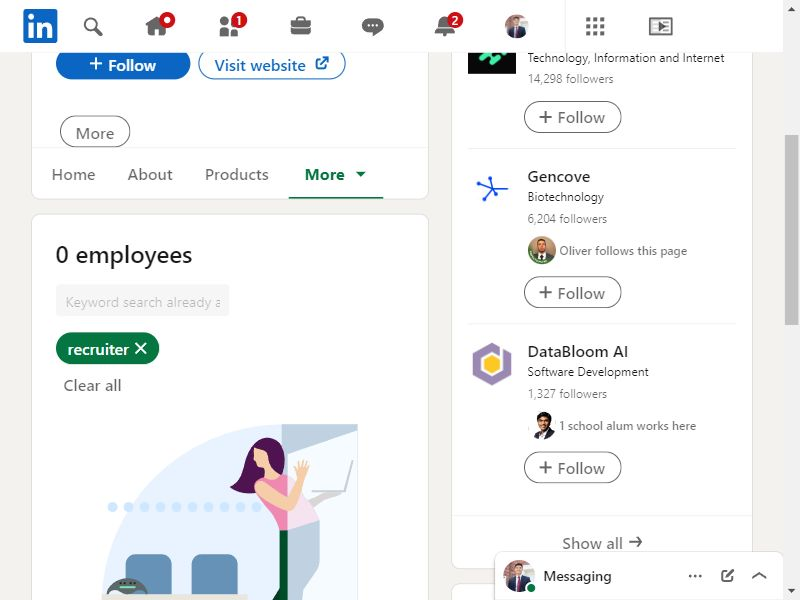
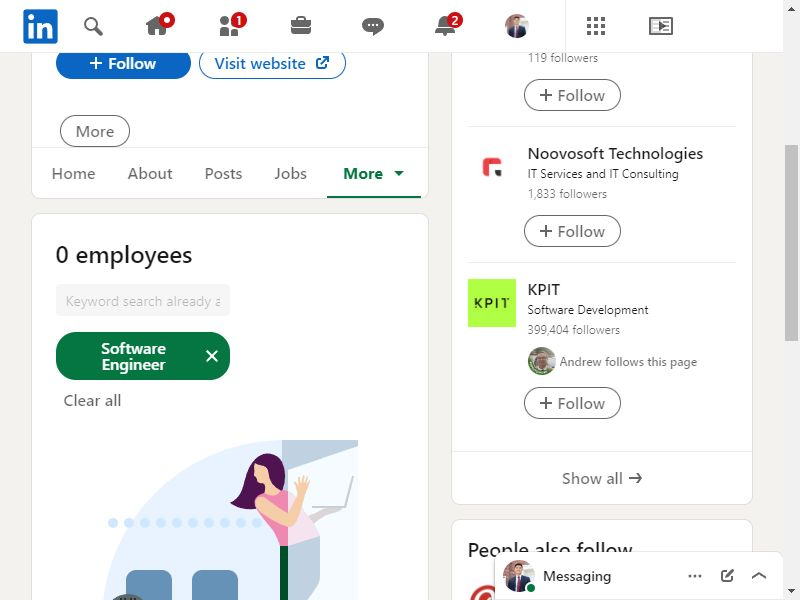
revise if/else condition

diff --git a/scrapeRecruiter.js b/scrapeRecruiter.js
@@ -1,6 +1,7 @@
 const puppeteer = require('puppeteer');
 const {getLinkedinUsername, getLinkedinPassword} = require('./envVariable.js');
 let yourModule = require('./mongo.js');
+let utils = require('./utils.js')
 function delay(time) {
 	return new Promise(function(resolve) { 
 		setTimeout(resolve, time)
@@ -31,7 +32,7 @@ function delay(time) {
     
     i = 0
     let jobLists = [];
- 
+
     while (i < 1) {
         for await (const doc of lists) {
             if (doc.reachedOut == false) {
@@ -46,7 +47,7 @@ function delay(time) {
             }
         }
     }
-      
+    
 
     for await(const jobUrl of jobLists) {
         await page.goto(jobUrl);
@@ -59,14 +60,16 @@ function delay(time) {
         });
 
         await page.goto(companyUrl);
-        let url = await page.url();
-        await delay(10000);
-        //revise url
-        if (url.includes("/life")){
-            url = url.split("/life")[0];
-        }
-        console.log(url)
-        await page.goto(url +'/people');
+
+        await utils.linkedinPeoplePage(page);
+        //let url = await page.url();
+        // await delay(10000);
+        // //revise url
+        // if (url.includes("/life")){
+        //     url = url.split("/life")[0];
+        // }
+        // console.log(url)
+        // await page.goto(url +'/people');
 
         await delay(10000);
 
@@ -106,11 +109,17 @@ function delay(time) {
                 
         });
         console.log(fullName)
+        let firstName = fullName.split(" ")[0]
+
         await delay(10000);
 
         let v = await page.$eval('div.pvs-profile-actions > button', element=> element.getAttribute("aria-label"))
 
-        if (v.toLowerCase().includes('follow')){
+        if (v.toLowerCase().includes('connect')){
+            //await page.$eval('div.pvs-profile-actions > div.artdeco-dropdown', element=> element.scrollIntoView());
+            await page.click('div.pvs-profile-actions > button')
+
+        }else {
             //await page.$eval('div.pvs-profile-actions > div.artdeco-dropdown', element=> element.scrollIntoView());
             await page.keyboard.press('ArrowDown');
             await page.keyboard.press('ArrowDown');
@@ -131,15 +140,96 @@ function delay(time) {
 
                 await element.click();
             }
-        }else {
-                await page.click('div.pvs-profile-actions > button')
-
-            }
+        }
         await page.click('[aria-label="Add a note"]')
 
         await delay(5000);
 
-        await page.type('[name="message"]',`Hello ${fullName},\nI\'m Kenneth Ng, a software engineer who saw your profile on LinkedIn and thought you might be an ally in connecting me with the recruiter who is responsible for this Software Engineer.\nI consider myself to be an engineer who has the skills to succeed. Would you be open to helping my application get considered by connecting me to the right person?\nBest,\nKenneth
+        await page.type('[name="message"]',`Hello ${firstName},\nI\'m Kenneth Ng, a software engineer and thought you might be able to connect me with the recruiter who is responsible for a Software Engineer role.\nI consider myself to be an engineer who has the skills to succeed. Would you be open to connecting me to the right person?\nBest,\nKenneth`);
+        
+        await delay(5000);
+
+        await page.click('[aria-label="Send now"]')
+        }
+
+
+        await page.goto(companyUrl);
+
+        await utils.linkedinPeoplePage(page);
+
+        await delay(10000);
+        const searchEmployee = await page.$('[id="people-search-keywords"]');
+        await searchEmployee.click();
+    
+        await searchEmployee.type('Software Engineer');
+    
+        await page.keyboard.press('Enter');
+    
+        await delay(5000);    
+        
+        //collect recruiter url
+        const engineerUrls = await page.evaluate(() => {
+            const tds = Array.from(document.querySelectorAll('li'))
+            return tds.flatMap(td => {
+
+                try{
+                    var txt = td.querySelector('div').querySelector('section').querySelector('div').querySelector('div').querySelector('div').querySelector('a').getAttribute('href');
+                    return {txt}
+                } catch {
+                    return [];
+                }
+                });
+        });
+
+        //connect and send message
+
+        await delay(5000);
+        console.log(engineerUrls);
+        for await (const url of engineerUrls) {
+            await page.goto(url.txt);
+
+        
+        const fullName = await page.evaluate(() => {
+            return document.querySelector('h1').innerText;
+                
+        });
+        console.log(fullName)
+        firstName = fullName.split(" ")[0]
+        await delay(10000);
+
+        let v = await page.$eval('div.pvs-profile-actions > button', element=> element.getAttribute("aria-label"))
+
+        if (v.toLowerCase().includes('connect')){
+            //await page.$eval('div.pvs-profile-actions > div.artdeco-dropdown', element=> element.scrollIntoView());
+                await page.click('div.pvs-profile-actions > button')
+
+        }else {
+            //await page.$eval('div.pvs-profile-actions > div.artdeco-dropdown', element=> element.scrollIntoView());
+            await page.keyboard.press('ArrowDown');
+            await page.keyboard.press('ArrowDown');
+            await page.keyboard.press('ArrowDown');
+            await page.keyboard.press('ArrowDown');
+            await page.click('div.pvs-profile-actions > div.artdeco-dropdown');
+
+            await delay(5000);
+            // let b = await page.$eval('div.pvs-profile-actions> div.artdeco-dropdown > div > div > ul > li > div)', element=> element.getAttribute("aria-label"))
+            // console.log(b)
+
+            // await page.$$eval('a.cls-context-menu-link', links => links.forEach(link => link.click()))
+            const elements = await page.$$(`div[aria-label="Invite ${fullName} to connect"]`);
+            for await (const element of elements) {
+                await delay(5000);
+                await page.click('div.pvs-profile-actions > div.artdeco-dropdown');
+                await delay(5000);
+
+                await element.click();
+            }
+        }
+        await page.click('[aria-label="Add a note"]')
+
+        await delay(5000);
+
+        await page.type('[name="message"]',`Hello ${firstName},\nI recently came across your profile on LinkedIn and was amazed by your experience and background.\nWill you be available to speak with me for 10 minutes about your career path? \nThank You,\nKenneth
         `);
         await delay(5000);
 

diff --git a/utils.js b/utils.js
@@ -1,0 +1,24 @@
+
+let utils={};
+
+utils.delay=async(time)=>{
+	return new Promise(function(resolve) { 
+		setTimeout(resolve, time)
+	});
+}
+
+utils.linkedinPeoplePage=async(page)=>{
+    let url = await page.url();
+    await utils.delay(10000);
+    //revise url
+    if (url.includes("/life")){
+        url = url.split("/life")[0];
+    } else if (url.includes("/job")){
+        url = url.split("/life")[0];
+    }
+    console.log(url)
+    await page.goto(url +'/people');
+}
+
+
+module.exports = utils;
